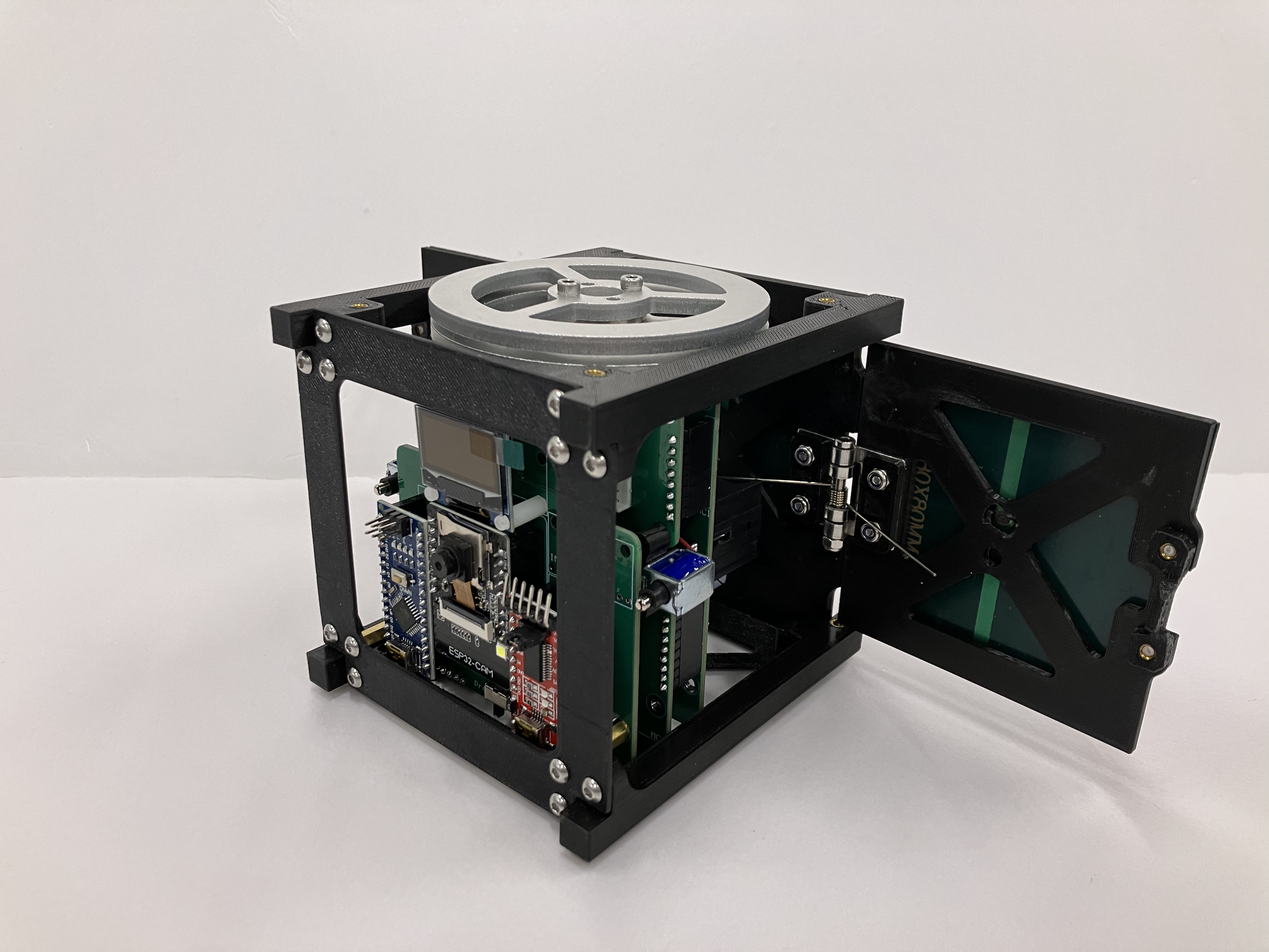
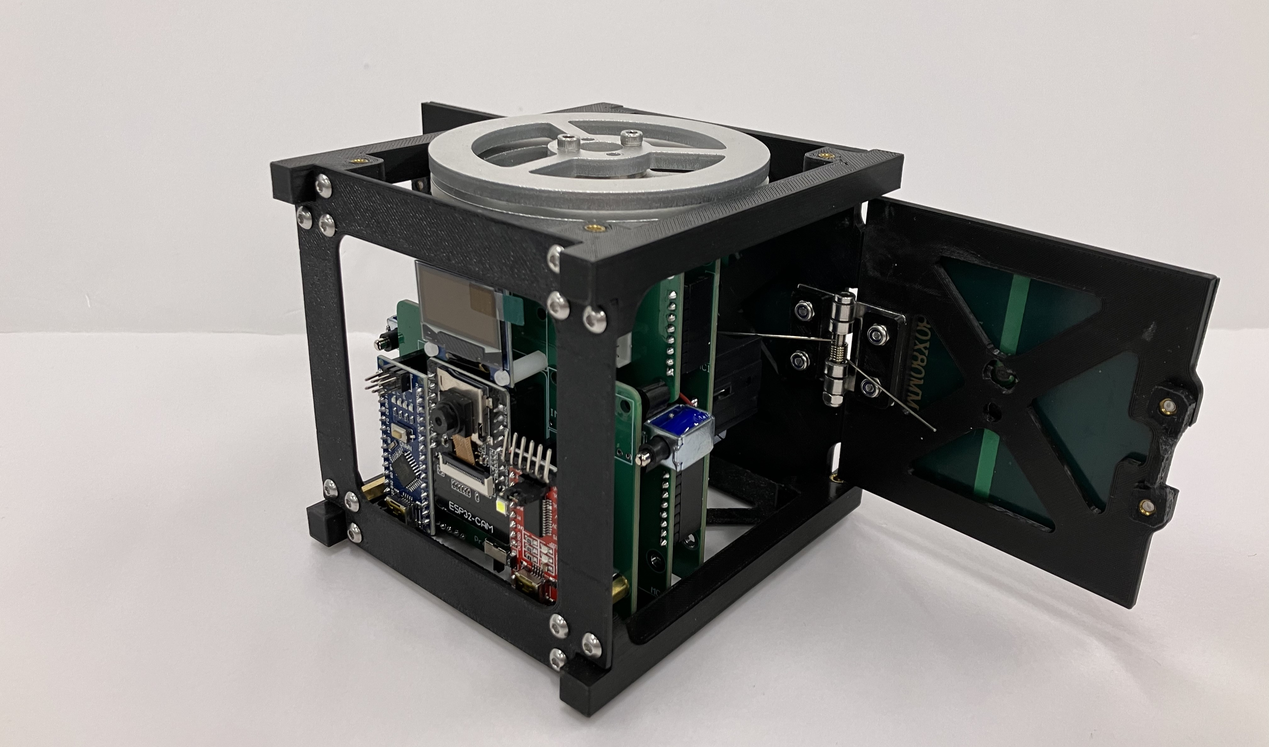
Update README

Changed region(s): [[0.1875, 0.1247, 0.9688, 0.9979], [0.8125, 0.7484, 0.9062, 0.8732], [0.7812, 0.7172, 0.8125, 0.7484]]

diff --git a/README.md b/README.md
@@ -1,5 +1,5 @@
 # OASA-CubeSat
 <p align = "center">
-<img src="Figures/CAD_model.png" width="400"> 
-<img src="Figures/Assembled_model.jpg" width="400"> 
+<img src="Figures/CAD_model.png" height="300"> 
+<img src="Figures/Assembled_model.jpg" height="300"> 
 </p>
